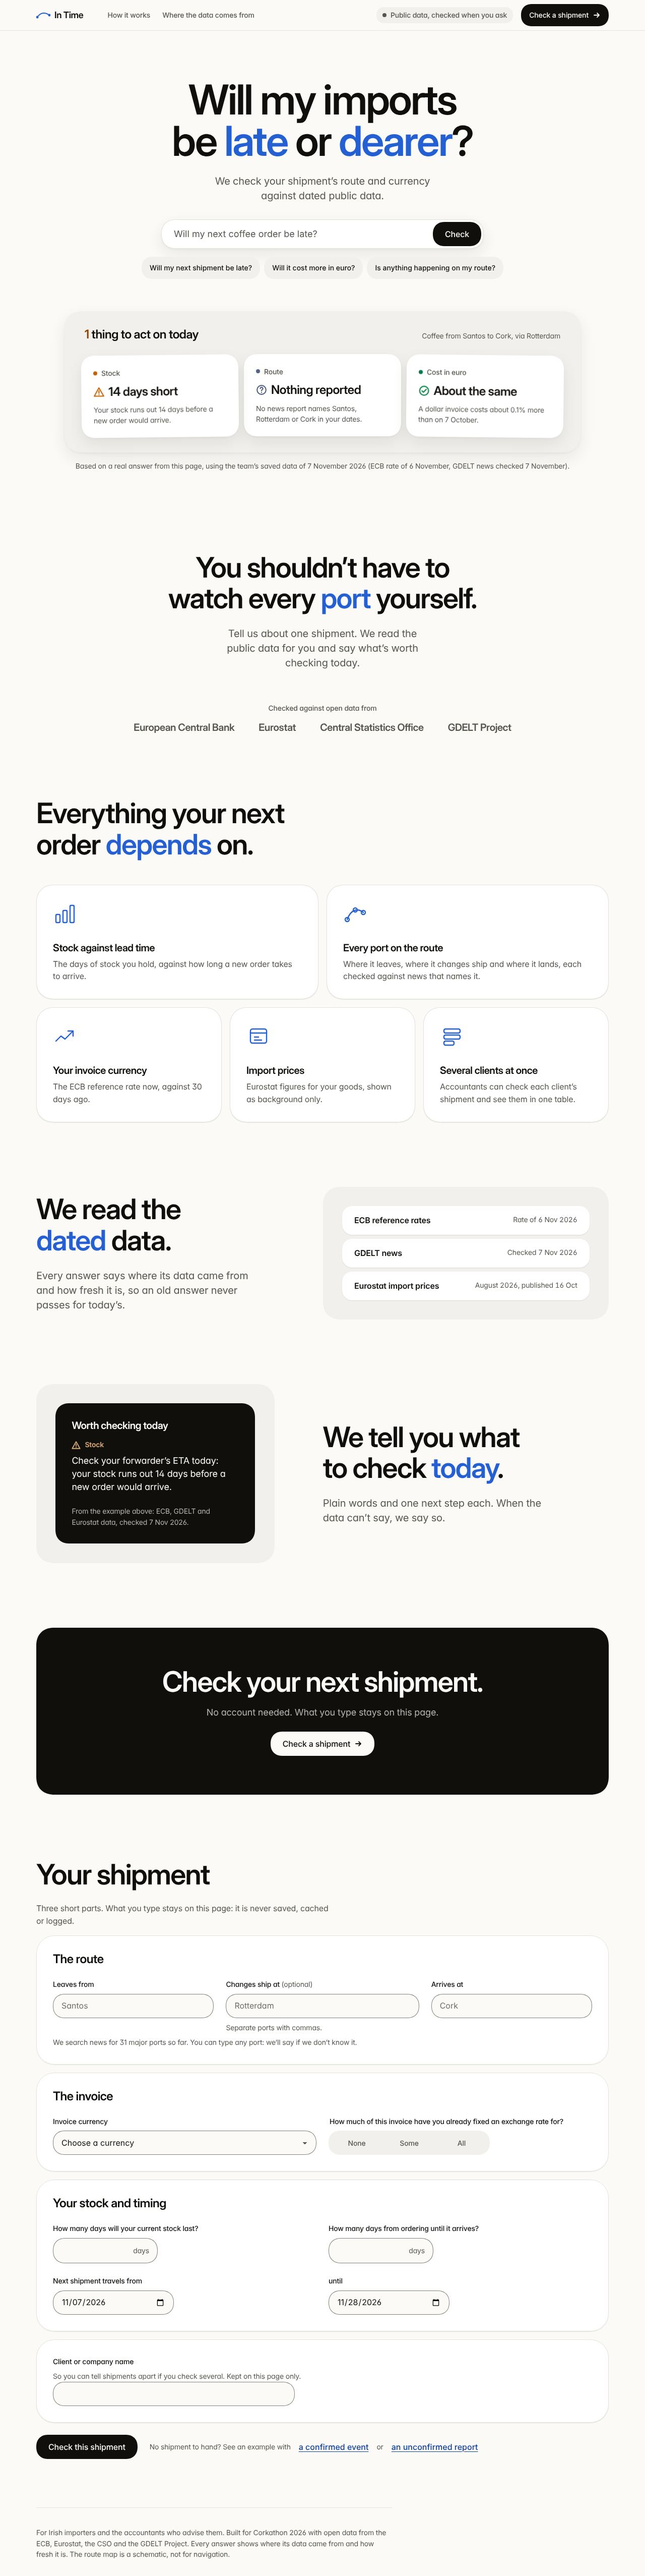
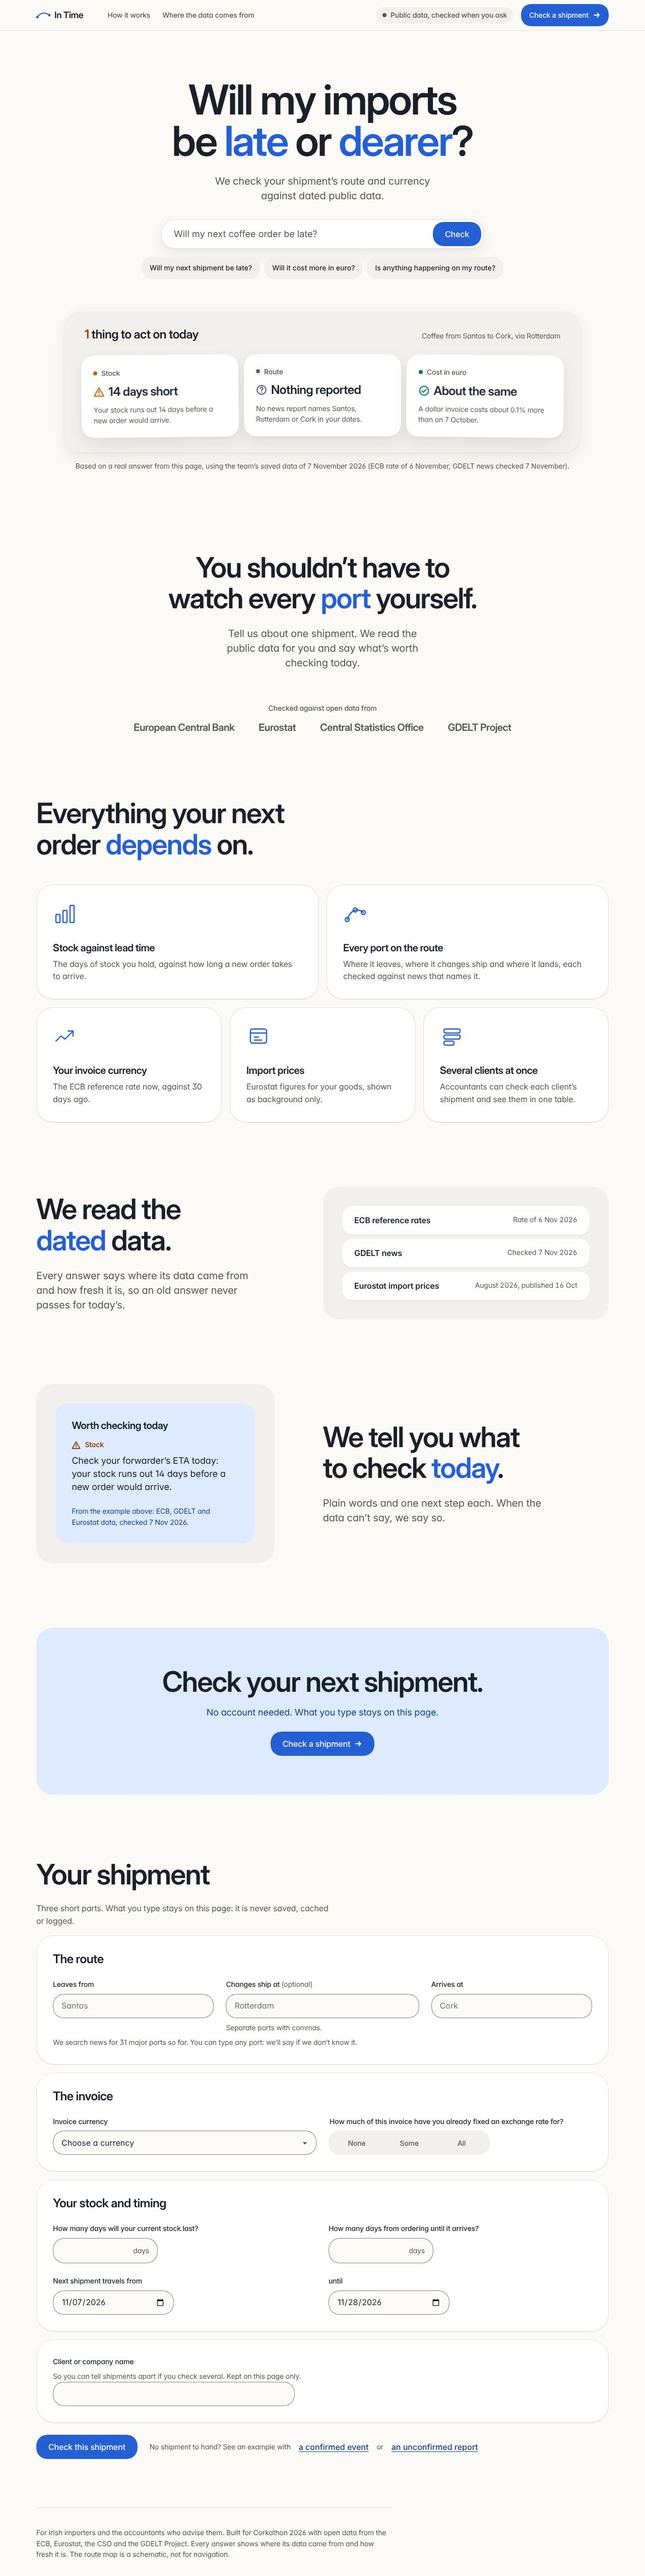
Lighter palette: blue buttons and accent panels, soft charcoal dark mode
Khoa: "Don't use such a dark color palette".
- Main buttons, the to-do numbers, the checked toggle, the wake-slider bars
  and the confirmed badge use the brand blue instead of near-black.
- The dark panel and call-to-action band become a soft brand-blue tint.
- Dark mode moves from pure black (#000 page, #171717 cards) to a blue-tinted
  charcoal (#1D222A page, #282E38 cards); text softened to #1A1F29 in light.
- docs/brand.md colour table and rules updated.

Checks: 110 tests OK; axe 0 violations at 1280 and 390, light and dark,
landing and answer; no console errors.

Claude-Session: https://claude.ai/code/session_01W2xLkForaTsgKoAT3qMgDq

diff --git a/web/styles.css b/web/styles.css
@@ -1,10 +1,10 @@
-/* Hallmark · v2.0.0 · redesign: full · scope: page + app · theme: Soft Pill (morphin-ui shapes, Inter, warm neutrals / pure black) · genre: product · hero: centred question + a fanned stack of real answer cards · landing: section order after useorigin.com (structure only) · posture: Restrained · signature: three answer cards, each with something to try · components: ported by hand from bencho and libraries.dev (both MIT), see docs/third-party.md */
+/* Hallmark · v2.0.0 · redesign: full · scope: page + app · theme: Soft Pill (morphin-ui shapes, Inter, warm neutrals / soft charcoal, blue accents) · genre: product · hero: centred question + a fanned stack of real answer cards · landing: section order after useorigin.com (structure only) · posture: Restrained · signature: three answer cards, each with something to try · components: ported by hand from bencho and libraries.dev (both MIT), see docs/third-party.md */
 /* Pre-emit critique: no eyebrows, no tracked caps, no middle-dot meta, tokens for colour and space, no glow shadows (the border beam is a thin stroke shown only while a check runs), h2 at 40px or more, controls 44 to 52px, hero headline 7 words and one 11-word sentence above the fold at 1280x800. */
 /* Sweep: hallmark's sloplint was not run (this environment does not run code from that repo); gates applied by hand. */
 /* Imports check, theme "Soft Pill" (v4). A clean slate after Night Harbour.
    Shapes and tokens follow the morphin-ui approach (MIT): pill controls with a superellipse
-   corner, soft filled cards, Inter at a tight semibold, warm neutrals in light and pure black
-   with #171717 cards in dark. Interactions borrow ideas from bencho.dev and libraries.dev,
+   corner, soft filled cards, Inter at a tight semibold, warm neutrals in light and a soft blue-tinted charcoal
+   in dark, with brand-blue buttons and accents (Khoa asked for no heavy dark colours, 7 Nov). Interactions borrow ideas from bencho.dev and libraries.dev,
    rebuilt here in plain CSS and JS (no packages, no build step, CSP-safe).
    Amber means "act", never "danger": there is no red status colour. Status always has a word and an icon. */
 
@@ -21,12 +21,12 @@
   --card:oklch(100% 0 0);
   --secondary:oklch(95.6% .004 85);
   --secondary-2:oklch(92.5% .005 85);
-  --foreground:oklch(17% .006 85);
+  --foreground:oklch(24% .02 262);
   --muted-foreground:oklch(45% .01 85);
   --border:oklch(91.5% .005 85);
   --input:oklch(60% .01 85);
-  --primary:var(--foreground);
-  --primary-foreground:oklch(98.5% .002 85);
+  --primary:var(--brand);
+  --primary-foreground:oklch(99% .003 262);
   --brand:oklch(52% .19 262);
   --brand-soft:oklch(93.5% .035 262);
   --brand-ink:oklch(40% .16 262);
@@ -61,17 +61,17 @@
   --dur-1:150ms;--dur-2:250ms;--dur-3:350ms}
 
 @media (prefers-color-scheme:dark){:root{
-  --background:oklch(0% 0 0);
-  --card:oklch(20.5% 0 0);
-  --secondary:oklch(26.9% 0 0);
-  --secondary-2:oklch(31% 0 0);
-  --foreground:oklch(98.5% 0 0);
-  --muted-foreground:oklch(72% 0 0);
-  --border:oklch(29% 0 0);
-  --input:oklch(56% 0 0);
-  --primary-foreground:oklch(14% 0 0);
+  --background:oklch(25% .018 262);
+  --card:oklch(30% .02 262);
+  --secondary:oklch(34% .022 262);
+  --secondary-2:oklch(38% .024 262);
+  --foreground:oklch(97% .006 262);
+  --muted-foreground:oklch(82% .015 262);
+  --border:oklch(40% .02 262);
+  --input:oklch(64% .02 262);
+  --primary-foreground:oklch(20% .03 262);
   --brand:oklch(72% .14 262);
-  --brand-soft:oklch(30% .08 262);
+  --brand-soft:oklch(38% .08 262);
   --brand-ink:oklch(82% .1 262);
   --data:oklch(80% .19 148);
   --data-soft:oklch(80% .19 148 / .16);
@@ -86,7 +86,7 @@
   --ring:oklch(72% .14 262);
   --shadow-1:none;
   --shadow-2:0 0 0 1px oklch(100% 0 0 / .06);
-  --popover-shadow:0 0 0 1px oklch(100% 0 0 / .08),0 24px 48px oklch(0% 0 0 / .6);
+  --popover-shadow:0 0 0 1px oklch(100% 0 0 / .08),0 24px 48px oklch(10% .02 262 / .45);
   --beam-sheen:oklch(100% 0 0 / .75)}}
 
 /* ---------- Base ---------- */
@@ -310,7 +310,7 @@ input[type=date]{max-width:15rem}
 .findings a{color:var(--foreground)}
 .badge{display:inline-flex;align-items:center;height:20px;font:600 var(--text-xs)/1 var(--font-sans);padding:0 var(--s-2);border-radius:var(--pill);margin-right:var(--s-2);vertical-align:1px}
 .badge.rep{color:var(--foreground);background:var(--warn-soft)}
-.badge.conf{color:var(--primary-foreground);background:var(--foreground)}
+.badge.conf{color:var(--primary-foreground);background:var(--primary)}
 .findings .meta{display:block;color:var(--muted-foreground);font-size:var(--text-xs);margin-top:var(--s-1)}
 
 .part-viz{min-width:0;display:flex;flex-direction:column;gap:var(--s-4)}
@@ -343,7 +343,7 @@ input[type=range]:focus-visible{outline:2px solid var(--ring);outline-offset:2px
    input sits on top, transparent, so keyboard, touch and screen readers work as before. */
 .wks{position:relative;display:flex;align-items:center;justify-content:space-between;height:var(--h-md);padding:0 var(--s-1);border-radius:var(--s-2);cursor:ew-resize}
 .wks-bar{flex:none;width:3px;height:20px;border-radius:3px;background:color-mix(in oklch,var(--foreground) 32%,var(--secondary));transform-origin:50% 50%;transition:background-color 160ms ease}
-.wks-bar[data-on]{background:var(--foreground)}
+.wks-bar[data-on]{background:var(--brand)}
 .wks input[type=range]{position:absolute;inset:0;width:100%;height:100%;opacity:0;margin:0;cursor:ew-resize}
 .wks:has(input:focus-visible){outline:2px solid var(--ring);outline-offset:4px}
 .rw-ctl .wks{grid-row:2;grid-column:1/-1}
@@ -430,7 +430,7 @@ input[type=range]:focus-visible{outline:2px solid var(--ring);outline-offset:2px
 @media(min-width:1000px){.todo{grid-template-columns:minmax(0,5fr) minmax(0,7fr);column-gap:var(--s-7)}.todo .sub-h{grid-row:span 2}}
 .todo ol{margin:0;padding:0;list-style:none;counter-reset:t;display:grid;gap:var(--s-2)}
 .todo li{counter-increment:t;display:grid;grid-template-columns:var(--s-7) 1fr;align-items:start;font:500 var(--text-lg)/1.4 var(--font-sans);padding:var(--s-4);background:var(--secondary);border-radius:var(--r-inner)}
-.todo li::before{content:counter(t);display:grid;place-items:center;width:28px;height:28px;border-radius:50%;background:var(--foreground);color:var(--primary-foreground);font:600 var(--text-sm)/1 var(--font-sans)}
+.todo li::before{content:counter(t);display:grid;place-items:center;width:28px;height:28px;border-radius:50%;background:var(--primary);color:var(--primary-foreground);font:600 var(--text-sm)/1 var(--font-sans)}
 .coverage{margin:0;color:var(--muted-foreground);font-size:var(--text-sm)}
 
 .track-grid{display:grid;gap:var(--s-5) var(--s-6)}
@@ -453,7 +453,7 @@ input[type=range]:focus-visible{outline:2px solid var(--ring);outline-offset:2px
 .check{display:inline-flex;align-items:center;gap:var(--s-3);font-weight:500;font-size:var(--text-sm);margin:0;min-height:var(--h-md);cursor:pointer}
 .check input{-webkit-appearance:none;appearance:none;position:relative;flex:none;width:56px;height:32px;min-height:0;padding:0;margin:0;border:0;border-radius:var(--pill);background:var(--card);box-shadow:0 0 0 1px var(--input);cursor:pointer;transition:background 420ms ease}
 .check input::after{content:"";position:absolute;top:var(--s-1);left:var(--s-1);width:24px;height:24px;border-radius:var(--pill);background:color-mix(in oklch,var(--foreground) 40%,var(--card));transition:left 420ms var(--ease-spring),background 420ms ease}
-.check input:checked{background:var(--foreground);box-shadow:none}
+.check input:checked{background:var(--primary);box-shadow:none}
 .check input:checked::after{left:28px;background:var(--card)}
 @media (prefers-reduced-motion:no-preference){.check input::after{animation:drop-off 420ms var(--ease)}.check input:checked::after{animation:drop-on 420ms var(--ease)}}
 @keyframes drop-on{40%{width:34px;margin-left:-10px}}
@@ -620,9 +620,8 @@ h1 em,.section-h em{font-style:normal;color:var(--brand)}
 .sl-name{font-weight:600}
 .sl-when{color:var(--muted-foreground);font-size:var(--text-sm);font-variant-numeric:tabular-nums}
 
-/* Dark panels: near-black in light mode, a lifted card in dark mode */
-.darkpanel,.cta{--dp-bg:var(--foreground);--dp-fg:var(--background);--dp-muted:color-mix(in oklch,var(--background) 74%,var(--foreground));--dp-warn:color-mix(in oklch,var(--warn) 55%,var(--background));--dp-calm:color-mix(in oklch,var(--calm) 55%,var(--background));background:var(--dp-bg);color:var(--dp-fg)}
-@media (prefers-color-scheme:dark){.darkpanel,.cta{--dp-bg:var(--card);--dp-fg:var(--foreground);--dp-muted:var(--muted-foreground);--dp-warn:var(--warn);--dp-calm:var(--calm);box-shadow:0 0 0 1px var(--border)}}
+/* Accent panels: soft brand blue in both modes (Khoa: no heavy dark colours) */
+.darkpanel,.cta{--dp-bg:var(--brand-soft);--dp-fg:var(--foreground);--dp-muted:var(--brand-ink);--dp-warn:var(--warn-ink);--dp-calm:var(--calm);background:var(--dp-bg);color:var(--dp-fg)}
 .darkpanel{padding:var(--s-6);border-radius:var(--r-card);corner-shape:var(--corner-shape)}
 .dp-title{margin:0 0 var(--s-4);font:600 var(--text-xl)/1.2 var(--font-display);letter-spacing:-.02em}
 .dp-list{list-style:none;margin:0;padding:0;display:grid;gap:var(--s-4)}
@@ -634,5 +633,3 @@ h1 em,.section-h em{font-style:normal;color:var(--brand)}
 .dp-foot{margin:var(--s-5) 0 0;font-size:var(--text-sm);color:var(--dp-muted)}
 .cta{display:flex;flex-direction:column;align-items:center;gap:var(--s-4);text-align:center;padding:clamp(var(--s-7),6vw,var(--s-9)) var(--s-5);border-radius:var(--r-card-lg);corner-shape:var(--corner-shape)}
 .cta p{margin:0 0 var(--s-2);color:var(--dp-muted);font-size:var(--text-lg)}
-.btn-invert{background:var(--dp-fg);color:var(--dp-bg)}
-.btn-invert:hover{background:color-mix(in oklch,var(--dp-fg) 88%,var(--dp-bg))}

diff --git a/web/index.html b/web/index.html
@@ -114,7 +114,7 @@
     <section class="cta" aria-labelledby="cta-h">
       <h2 id="cta-h" class="section-h">Check your next shipment.</h2>
       <p>No account needed. What you type stays on this page.</p>
-      <a class="btn btn-invert" href="#inputs">Check a shipment<svg viewBox="0 0 16 16" aria-hidden="true" focusable="false"><path d="M3 8h10M9 4l4 4-4 4"/></svg></a>
+      <a class="btn" href="#inputs">Check a shipment<svg viewBox="0 0 16 16" aria-hidden="true" focusable="false"><path d="M3 8h10M9 4l4 4-4 4"/></svg></a>
     </section>
   </div>
 

diff --git a/docs/brand.md b/docs/brand.md
@@ -30,12 +30,12 @@ From the app's design tokens (`web/styles.css`, defined in OKLCH; hex values are
 
 | Role | Token | Light | Dark | Used for |
 |---|---|---|---|---|
-| Background | `--background` | `#FBFAF7` | `#000000` | Page |
-| Card | `--card` | `#FFFFFF` | `#171717` | Cards, answer, form |
-| Soft fill | `--secondary` | `#F2F0ED` | `#262626` | Chips, charts, inner panels |
-| Text | `--foreground` | `#110F0C` | `#FAFAFA` | Body, headings, main button |
-| Muted text | `--muted-foreground` | `#58554F` | `#A4A4A4` | Captions, "How sure" |
-| Brand (blue) | `--brand` | `#245FD4` | `#73A3FC` | Links, sliders, route line, focus |
+| Background | `--background` | `#FBFAF7` | `#1D222A` | Page |
+| Card | `--card` | `#FFFFFF` | `#282E38` | Cards, answer, form |
+| Soft fill | `--secondary` | `#F2F0ED` | `#323844` | Chips, charts, inner panels |
+| Text | `--foreground` | `#1A1F29` | `#F3F5F9` | Body, headings |
+| Muted text | `--muted-foreground` | `#58554F` | `#BFC4CE` | Captions, "How sure" |
+| Brand (blue) | `--brand` | `#245FD4` | `#73A3FC` | Main buttons, links, sliders, route line, focus, accent panels (soft tint) |
 | Data (green) | `--data` | `#0E8C41` | `#53DE73` | Stock bar, exchange-rate line |
 | Warning (amber) | `--warn` | `#C66000` | `#FCA942` | Stock shortfall, confirmed event |
 | Calm | `--calm` | `#007E46` | `#60DB89` | "About the same", nothing to act on |
@@ -44,6 +44,7 @@ From the app's design tokens (`web/styles.css`, defined in OKLCH; hex values are
 Rules:
 - **Amber means "act", not "danger".** There is no red status colour: the product warns, it doesn't alarm.
 - **Colour never carries meaning alone.** Every status has a word and an icon ("⚠ 14 days short").
+- **No heavy dark colours** (Khoa, 7 Nov): dark mode is a soft blue-tinted charcoal, not pure black; buttons and accent panels use the brand blue, not black.
 - **Contrast:** WCAG 2.2 AA in both themes (the team rule; the page passes automated checks with 0 violations).
 
 The pitch deck still uses the old Night Harbour colours (navy `#13233A`, off-white `#F6F3EC`, amber `#E8913A`) and needs updating to match.
